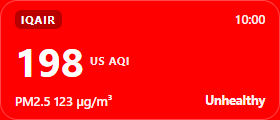
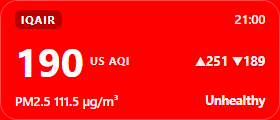
docs: refresh widget screenshot with 24h forecast chip

diff --git a/debug_capture.js b/debug_capture.js
@@ -13,7 +13,7 @@ app.whenReady().then(async () => {
     height: 96,
     frame: false,
     show: false,
-    backgroundColor: classify(198).color,
+    backgroundColor: classify(190).color,
     webPreferences: {
       preload: path.join(__dirname, 'preload.js'),
       contextIsolation: true,
@@ -21,17 +21,25 @@ app.whenReady().then(async () => {
     }
   });
   await win.loadFile('index.html');
+  const today = new Intl.DateTimeFormat('en-CA', { timeZone: 'Asia/Kuala_Lumpur' }).format(new Date());
   win.webContents.send('aqi', {
     ok: true,
     data: {
-      aqi: 198,
-      pm25: 123,
-      category: classify(198),
-      observedAt: '2026-10-06T02:00:00.000Z',
+      aqi: 190,
+      pm25: 111.5,
+      category: classify(190),
+      observedAt: '2026-10-09T13:00:00.000Z',
       source: 'iqair',
       fetchedAt: new Date().toISOString()
     },
-    settings: { staleMinutes: 20, timeZone: 'Asia/Kuala_Lumpur' }
+    forecast: { date: today, high: 251, low: 189 },
+    settings: {
+      staleMinutes: 20,
+      timeZone: 'Asia/Kuala_Lumpur',
+      clickThrough: false,
+      forecast: true,
+      notifications: true
+    }
   });
   await new Promise((r) => setTimeout(r, 700));
 
